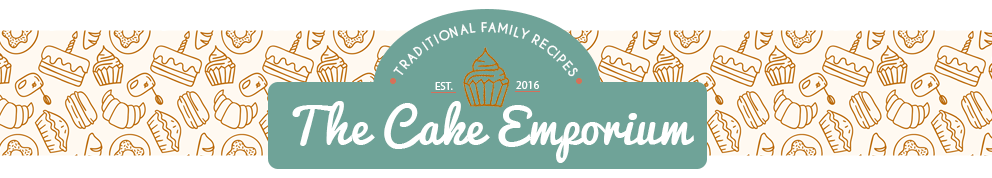
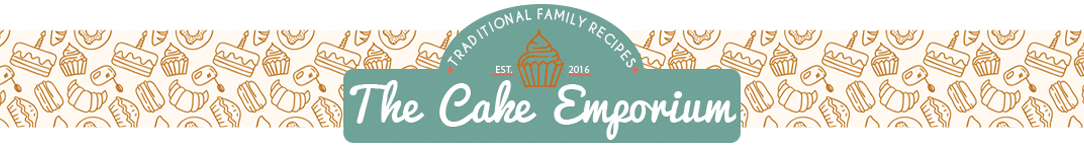
added content for 2 themes and skin files.

diff --git a/App_Themes/birthday/birthdaystyles.css b/App_Themes/birthday/birthdaystyles.css
@@ -1,12 +1,4 @@
 /*Group1 - The Cake Emporium - Connor, Staci, Lisa, Joe, Bethany */
-/* COLOR SCHEME
-    #6FA398 - blue
-    #F1BC75 - yellow/gold
-    #59524B - black/copy color
-    #D16956 - dark red
-    #F2F2F2 - off-white
-    #F26E61 - medium red
-*/
 
 article, aside, figure, figcaption, footer, header, nav, section {
     display: block;
@@ -16,7 +8,7 @@ article, aside, figure, figcaption, footer, header, nav, section {
 /****************** Styles on the MasterPage.master Page ***************/
 body {
     color: #59524B;
-    background-image: url('../Images/background.png');
+    background-image: url('background_birthday4.png');
    /* max-width: 920px;
     margin: 0 auto; */
 }
@@ -27,24 +19,25 @@ body {
    /*width: 80%; dont change this, yo. */
 }
 /************************* header *************************************/
-.pageHeader {
-    margin-bottom: 5px;
+.pageHeader img {
+    width: 100%;
+    height: auto;
 }
 
 .pageHeader img {
-     width: 100%;
-     height: auto; 
-}
+    display: inline;
 
-.pageHeader img {display: none;}
+   }
 
-#image_large{ display: inline; }
+#image_large{ display: none; }
 #image_med { display: none; }
 #image_sm { display: none; }
 
-.birthdayheader_lrg { display: none  }
-.birthdayheader_med { display: none  }
-.birthdayheader_sm  { display: none  }
+.birthdayheader_lrg { display: inline !important;}
+.birthdayheader_med { display: none !important; }
+.birthdayheader_sm  { display: none !important; }
+
+
 /* end header css*/
 
 .navbar2{
@@ -76,12 +69,6 @@ body {
     background-color:  #F1BC75;
     /*margin: 0 10px;*/
     padding:20px;
-}
-
-
-#centertext {
-    margin: 0 auto;
-    text-align: center;
 }
 
 #shopButtons{
@@ -127,26 +114,26 @@ body {
     display:table;
     width: 500px;
     margin: 15px auto;
-  font-size: 14px;
-  line-height: 1.42857143;
-  color: #555;
-  background-color: #fff;
-  border: 1px solid #ccc;
-  border-radius: 4px;
-  font-weight:bold;
+    font-size: 14px;
+    line-height: 1.42857143;
+    color: #555;
+    background-color: #fff;
+    border: 1px solid #ccc;
+    border-radius: 4px;
+    font-weight:bold;
 }
 
 .profileHeader{
-      display:inline-block;
-      border-radius: 4px 4px 0 0;
-      background-color:#428bca;
-      width: 100%;
-      margin: 0 auto;
-      font-size: 20px;
-      color: white;
-      padding: 10px;
-      text-align: center;
-      margin-bottom: 15px;
+    display:inline-block;
+    border-radius: 4px 4px 0 0;
+    background-color:#428bca;
+    width: 100%;
+    margin: 0 auto;
+    font-size: 20px;
+    color: white;
+    padding: 10px;
+    text-align: center;
+    margin-bottom: 15px;
 }
 /**************^ Profile Page END ^**************/
 /************** START OF LOGIN **************/
@@ -155,12 +142,12 @@ body {
     width: 400px;
     margin: 15px auto;
     font-size: 14px;
-  line-height: 1.42857143;
-  color: #555;
-  background-color: #fff;
-  border: 1px solid #ccc;
-  border-radius: 4px;
-  font-weight:bold;
+    line-height: 1.42857143;
+    color: #555;
+    background-color: #fff;
+    border: 1px solid #ccc;
+    border-radius: 4px;
+    font-weight:bold;
 }
 
 .loginInnerContainer{
@@ -168,7 +155,7 @@ body {
 }
 /***************^END LOGIN^************************/
 .center-block {  
-  display: block;  
+    display: block;  
     clear: both;
 
     display: table;
@@ -189,8 +176,9 @@ body {
 /*************** start of media queries go here ***************/
 
 @media only screen and (max-width : 920px){
-    #image_large{ display: none; }
-    #image_med { display: inline; }
+    .birthdayheader_lrg { display: none !important; }
+    .birthdayheader_med { display: inline !important; }
+    
     .menuButtons {display: block; width: 120px; text-size-adjust: 80%; font-weight:normal; margin-left: 2px; margin: 0 auto;}
     .footerButtons {display: block; width: 120px; text-size-adjust: 80%; font-weight:normal; margin-left: 2px; margin: 0 auto; }
     /*.footerButtons { display: block; width: 100px; text-size-adjust: 80%; font-weight: normal;padding: 0px; margin: 0px;}
@@ -198,8 +186,9 @@ body {
 }
 
 @media only screen and (max-width : 500px) {
-    #image_sm { display: inline; }
-    #image_med { display: none;}
+    .birthdayheader_med { display: none !important; }
+    .birthdayheader_sm  { display: inline !important; }
+
     .menuButtons { display: block; width: inherit; min-width: 235px; margin: 0px auto 5px auto; }
     .footerButtons { display: block; width: 100%; min-width: 235px; margin: 0px auto 5px auto; }
     /*.footerButtons { display: block; width: 125px; margin-left: 35px; padding: 5px; text-align: center; }

diff --git a/App_Themes/halloween/halloweenstyle.css b/App_Themes/halloween/halloweenstyle.css
@@ -1,13 +1,10 @@
-/*Group1 - The Cake Emporium - Connor, Staci, Lisa, Joe, Bethany */
-/* COLOR SCHEME
-    #6FA398 - blue
-    #F1BC75 - yellow/gold
-    #59524B - black/copy color
-    #D16956 - dark red
-    #F2F2F2 - off-white
-    #F26E61 - medium red
+/* Halloween colors 
+#7e401b - brown
+#962903 - dark red
+#fc962e - medium orange
+#e86807 - darker orange
+#ffbd83 - offwhite/light orange
 */
-
 article, aside, figure, figcaption, footer, header, nav, section {
     display: block;
 }
@@ -16,7 +13,7 @@ article, aside, figure, figcaption, footer, header, nav, section {
 /****************** Styles on the MasterPage.master Page ***************/
 body {
     color: #59524B;
-    background-image: url('../Images/background.png');
+    background-image: url('halloween_background.png');
    /* max-width: 920px;
     margin: 0 auto; */
 }
@@ -38,13 +35,17 @@ body {
 
 .pageHeader img {display: none;}
 
-#image_large{ display: inline; }
+#image_large{ display: none; }
 #image_med { display: none; }
 #image_sm { display: none; }
 
-.birthdayheader_lrg { display: none  }
-.birthdayheader_med { display: none  }
-.birthdayheader_sm  { display: none  }
+.birthdayheader_lrg { display: none;  }
+.birthdayheader_med { display: none; }
+.birthdayheader_sm  { display: none; }
+
+.halloweenheader_lrg { display: inline !important; }
+.halloweenheader_med { }
+.halloweenheader_sm  { }
 /* end header css*/
 
 .navbar2{
@@ -127,26 +128,26 @@ body {
     display:table;
     width: 500px;
     margin: 15px auto;
-  font-size: 14px;
-  line-height: 1.42857143;
-  color: #555;
-  background-color: #fff;
-  border: 1px solid #ccc;
-  border-radius: 4px;
-  font-weight:bold;
+    font-size: 14px;
+    line-height: 1.42857143;
+    color: #555;
+    background-color: #fff;
+    border: 1px solid #ccc;
+    border-radius: 4px;
+    font-weight:bold;
 }
 
 .profileHeader{
-      display:inline-block;
-      border-radius: 4px 4px 0 0;
-      background-color:#428bca;
-      width: 100%;
-      margin: 0 auto;
-      font-size: 20px;
-      color: white;
-      padding: 10px;
-      text-align: center;
-      margin-bottom: 15px;
+    display:inline-block;
+    border-radius: 4px 4px 0 0;
+    background-color:#428bca;
+    width: 100%;
+    margin: 0 auto;
+    font-size: 20px;
+    color: white;
+    padding: 10px;
+    text-align: center;
+    margin-bottom: 15px;
 }
 /**************^ Profile Page END ^**************/
 /************** START OF LOGIN **************/
@@ -155,12 +156,12 @@ body {
     width: 400px;
     margin: 15px auto;
     font-size: 14px;
-  line-height: 1.42857143;
-  color: #555;
-  background-color: #fff;
-  border: 1px solid #ccc;
-  border-radius: 4px;
-  font-weight:bold;
+    line-height: 1.42857143;
+    color: #555;
+    background-color: #fff;
+    border: 1px solid #ccc;
+    border-radius: 4px;
+    font-weight:bold;
 }
 
 .loginInnerContainer{
@@ -168,7 +169,7 @@ body {
 }
 /***************^END LOGIN^************************/
 .center-block {  
-  display: block;  
+    display: block;  
     clear: both;
 
     display: table;
@@ -189,8 +190,9 @@ body {
 /*************** start of media queries go here ***************/
 
 @media only screen and (max-width : 920px){
-    #image_large{ display: none; }
-    #image_med { display: inline; }
+    .halloweenheader_lrg { display: none !important; }
+    .halloweenheader_med { display: inline !important;}
+
     .menuButtons {display: block; width: 120px; text-size-adjust: 80%; font-weight:normal; margin-left: 2px; margin: 0 auto;}
     .footerButtons {display: block; width: 120px; text-size-adjust: 80%; font-weight:normal; margin-left: 2px; margin: 0 auto; }
     /*.footerButtons { display: block; width: 100px; text-size-adjust: 80%; font-weight: normal;padding: 0px; margin: 0px;}
@@ -198,8 +200,9 @@ body {
 }
 
 @media only screen and (max-width : 500px) {
-    #image_sm { display: inline; }
-    #image_med { display: none;}
+    .halloweenheader_med { display: none !important;}
+    .halloweenheader_sm  { display: inline !important;}
+
     .menuButtons { display: block; width: inherit; min-width: 235px; margin: 0px auto 5px auto; }
     .footerButtons { display: block; width: 100%; min-width: 235px; margin: 0px auto 5px auto; }
     /*.footerButtons { display: block; width: 125px; margin-left: 35px; padding: 5px; text-align: center; }

diff --git a/Default.aspx.cs b/Default.aspx.cs
@@ -8,6 +8,10 @@ using System.Web.UI.WebControls;
 
 public partial class _Default : System.Web.UI.Page
 {
+    protected void Page_PreInit(object sender, EventArgs e)
+    {
+        
+    }
     protected void Page_Load(object sender, EventArgs e)
     {
 
@@ -18,13 +22,13 @@ public partial class _Default : System.Web.UI.Page
     public void getNewProduct() //Gets random products to display on default page.
     {
         List<string> images = new List<string>();
-        images.Add("~/Images/carrotcake.png");
-        images.Add("~/Images/matchacake.png");
-        images.Add("~/Images/confetticake.png");
-        images.Add("~/Images/chocolatehalloweencake.png");
-        images.Add("~/Images/chocolateraspberrycake.png");
-        images.Add("~/Images/christmasicecreampudding.png");
-        images.Add("~/Images/lemoncake.png");
+        images.Add("~/Images/Products/carrotcake.png");
+        images.Add("~/Images/Products/matchacake.png");
+        images.Add("~/Images/Products/confetticake.png");
+        images.Add("~/Images/Products/chocolatehalloweencake.png");
+        images.Add("~/Images/Products/chocolateraspberrycake.png");
+        images.Add("~/Images/Products/christmasicecreampudding.png");
+        images.Add("~/Images/Products/lemoncake.png");
        
 
         List<string> descriptions = new List<string>();
